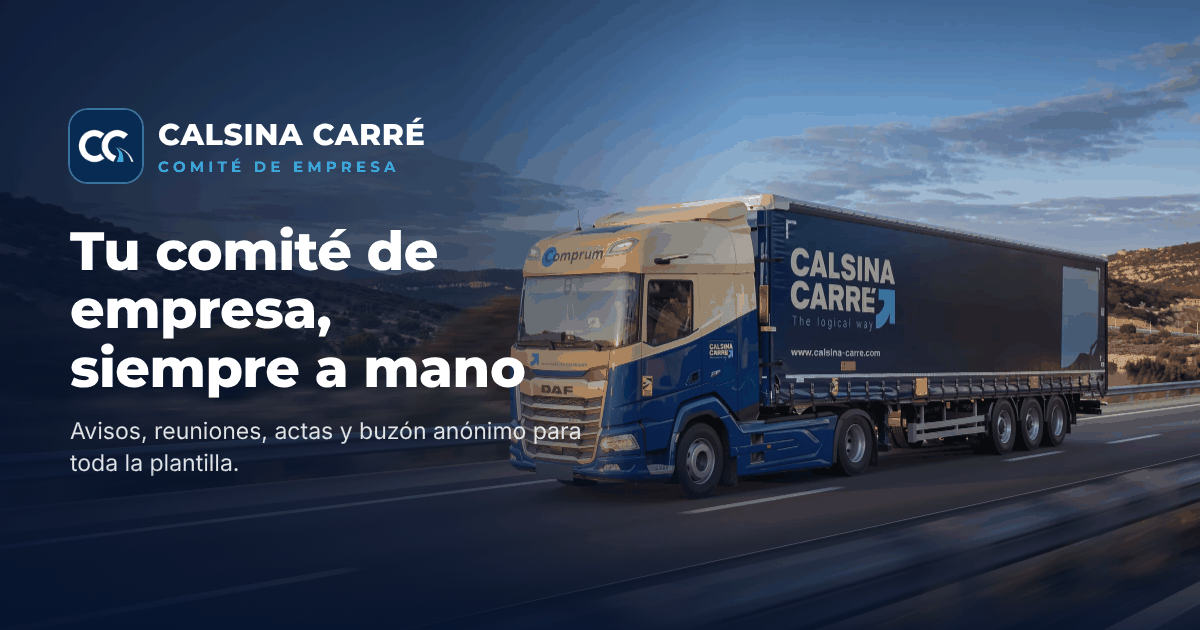
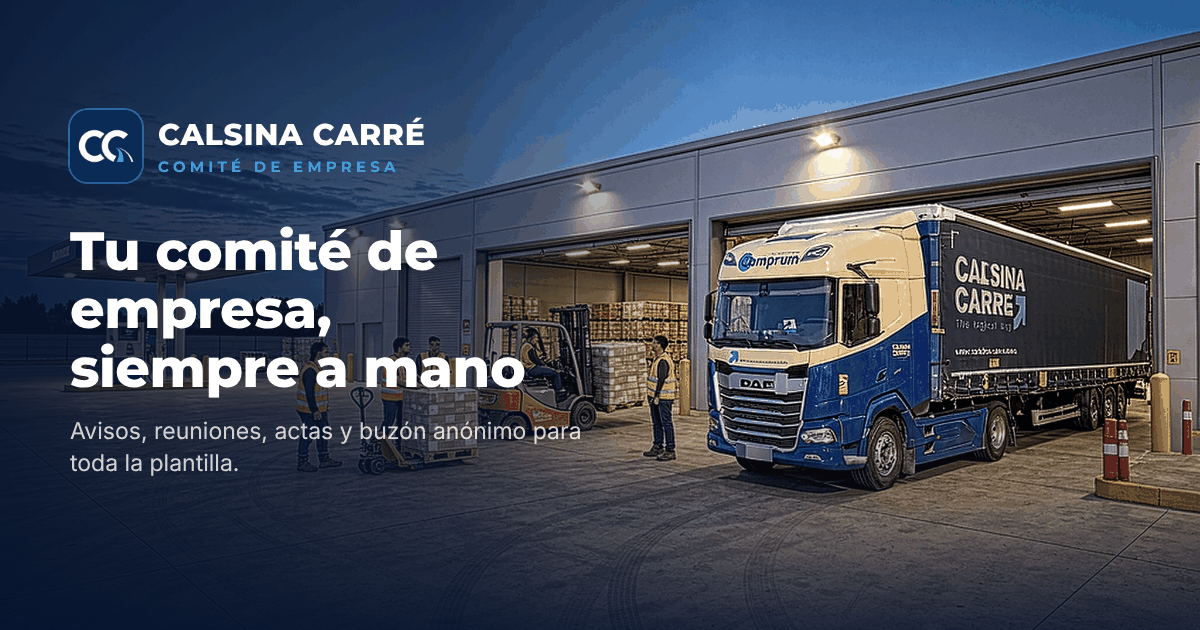
Imagen al compartir con la foto de toda la plantilla
Claude-Session: https://claude.ai/code/session_011SdsLKzTmFSpwPz2orkjvZ

diff --git a/herramientas/og.html b/herramientas/og.html
@@ -15,7 +15,7 @@ body{width:1200px;height:630px;overflow:hidden;font-family:Inter,sans-serif;colo
 .logo small{display:block;font:700 15px Montserrat;letter-spacing:.28em;text-transform:uppercase;color:#00C6FF;margin-top:4px}
 h1{font:800 54px/1.08 Montserrat;margin-top:40px;letter-spacing:-.01em}
 p{font-size:23px;color:rgba(255,255,255,.82);margin-top:18px;line-height:1.4}
-.arte{position:absolute;inset:0;background:url(../img/camion-carretera-ia.webp) 78% 62%/cover no-repeat}
+.arte{position:absolute;inset:0;background:url(../img/portada-plantilla.webp) 75% 55%/cover no-repeat}
 .arte::after{content:"";position:absolute;inset:0;background:linear-gradient(90deg,rgba(6,20,46,.88) 0,rgba(6,20,46,.6) 38%,rgba(6,20,46,0) 62%),linear-gradient(180deg,rgba(6,20,46,0) 62%,rgba(6,20,46,.85) 100%)}
 .arco{display:none}.txt,ul{z-index:1}
 ul{position:absolute;left:70px;right:70px;bottom:46px;list-style:none;padding:22px 0 0;display:grid;grid-template-columns:repeat(5,1fr);border-top:1px solid rgba(255,255,255,.18)}
